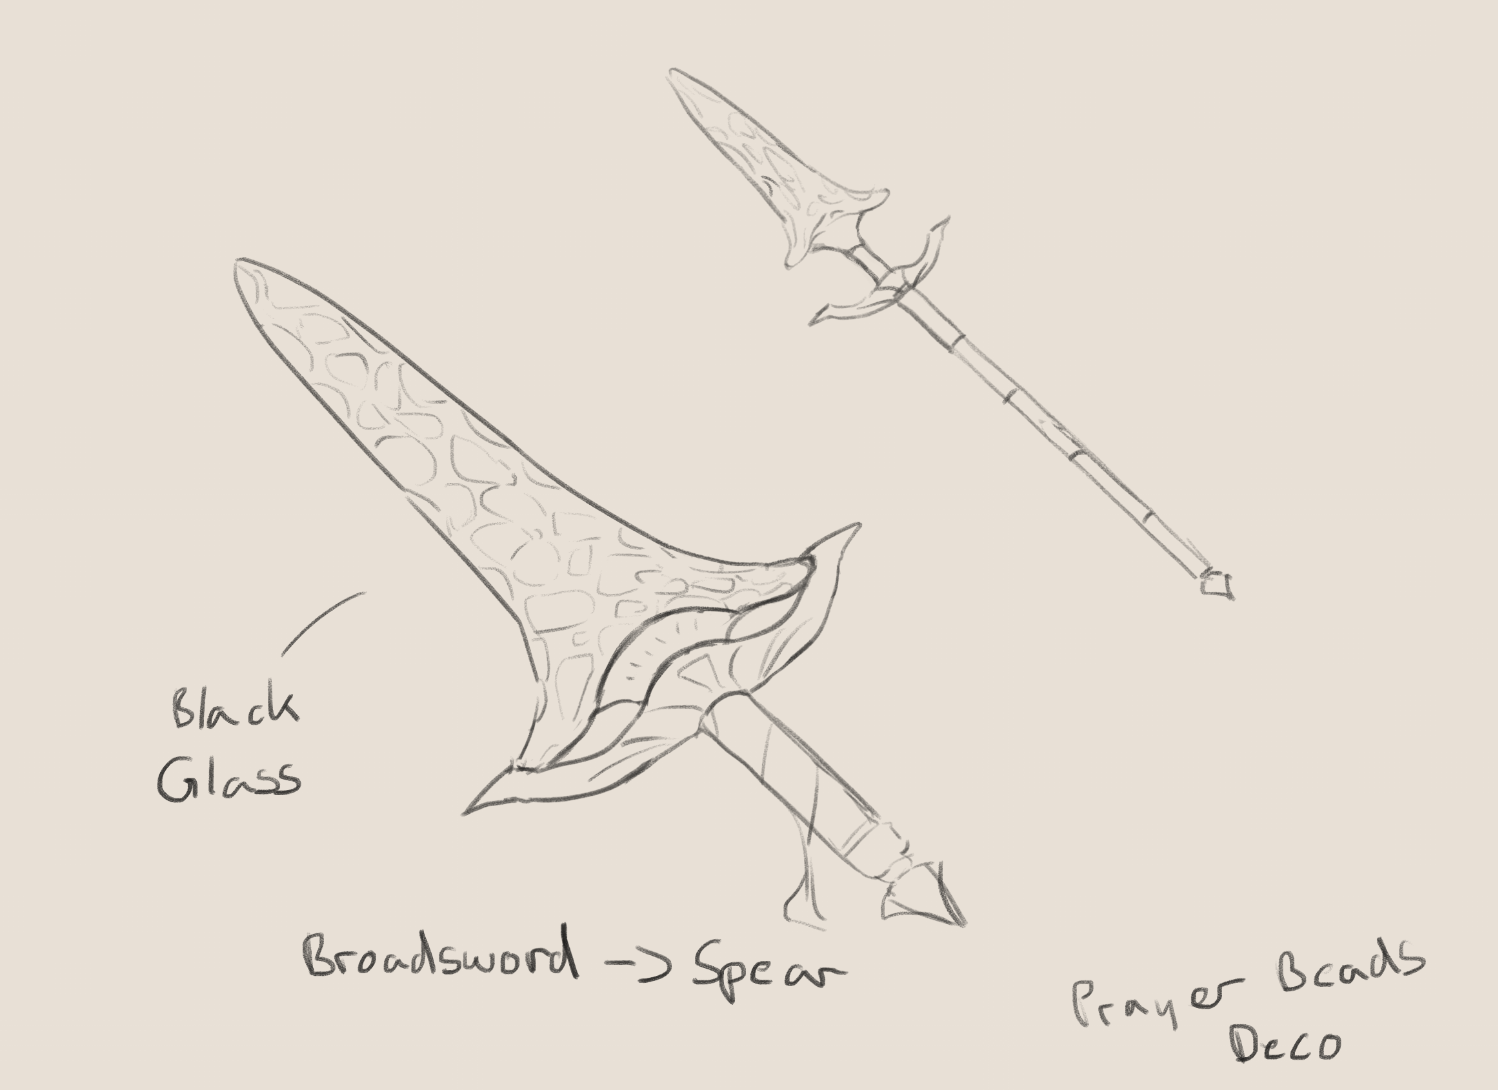
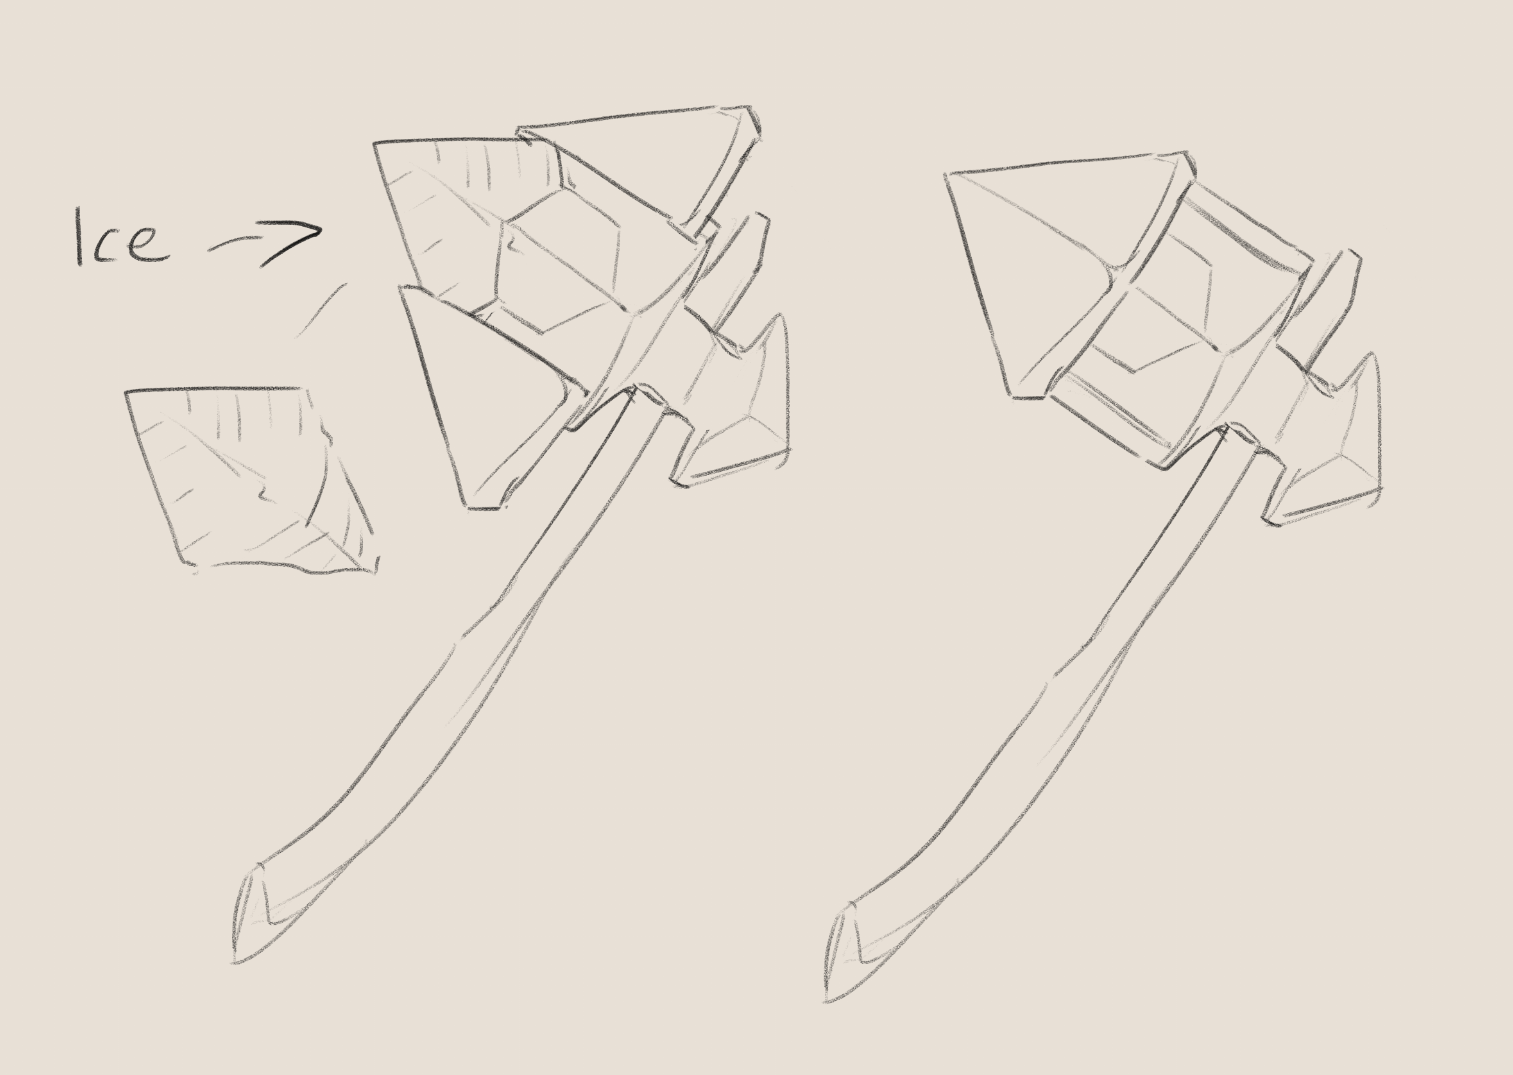
more

diff --git a/projects/weapon_collection/project_page.html b/projects/weapon_collection/project_page.html
@@ -38,7 +38,7 @@
             <!-- <img class="coverArtFull" src="../../img/image-logo.png" alt="Cover Image" height="512" width="512"></img> -->
         </div>
         <div class="mainTextField">
-            <div class="projectPage-Category category-artwork"> Coding </div>
+            <div class="projectPage-Category category-artwork"> Digital Art </div>
 
         </div>
     </div>
@@ -56,78 +56,51 @@
             </div>
 
             <p class="testJustify">
-                This procedural foot placement code is my own attempt to solve the problem of placing the feet of a
-                humanoid character correctly on uneven terrain.
-                I am aware that there are different approaches to this problem, but I wanted to develop my own solution
-                and challenge myself to think through the problem from the ground up.
+                Anyone who has played Bloodborne will know how fascinating its trick weapons are.
+                I think their appeal comes from the plausible designs, where a single weapon can be used in two distinct forms or ways.
 
             </p>
 
             <p class="testJustify">
-                Click on this <a href="FootPlacing.cs" download>DOWNLOAD</a> button to get the C# file.
-                The files in the ZIP contain the following small programs. The free program Processing is required
-                to run them:
+                Between the thorughs of what game I might develop one day and what I could draw next, I found myself coming up with some interesting weapon designs.
+                The sketches are not particularly polished, but they still capture the ideas and demonstrate some of the skills I have developed.
+                I therefore wanted to include them in my portfolio.
             </p>
 
-            <h4 class="textAlignLeft">The Final Result</h4>
-
-            <!-- Full-Size Video -->
-            <div class="img-medium-box">
-                <video width="100%" controls="">
-                    <source
-                        src="Bachelor-Project - Testscene - Windows, Mac, Linux - Unity 6.2 (6000.2.10F1)   Dx11  2026-09-05 21-26-58.mp4"
-                        type="video/mp4">
-                </video>
+            <div class="leftVerticalLineThick">
+                <div class="image-border img-square-box">
+                    <img class="popupImage clickable img-square hoverable" src="Screenshot 2026-01-03 150305.png"
+                        alt="Image" onclick="openPopup(this)" loading="lazy">
+                    <img class="popupImage clickable img-square hoverable" src="Screenshot 2025-09-06 014737.png"
+                        alt="Image" onclick="openPopup(this)" loading="lazy">
+                    <img class="popupImage clickable img-square hoverable" src="Screenshot 2025-09-06 014919.png"
+                        alt="Image" onclick="openPopup(this)" loading="lazy">
+                    <img class="popupImage clickable img-square hoverable" src="Screenshot 2026-01-03 162152.png"
+                        alt="Image" onclick="openPopup(this)" loading="lazy">
+                    <img class="popupImage clickable img-square hoverable" src="Screenshot 2025-09-06 014821.png"
+                        alt="Image" onclick="openPopup(this)" loading="lazy">
+                    <img class="popupImage clickable img-square hoverable" src="Screenshot 2025-09-06 014829.png"
+                        alt="Image" onclick="openPopup(this)" loading="lazy">
+                    <img class="popupImage clickable img-square hoverable" src="Screenshot 2025-09-06 014842.png"
+                        alt="Image" onclick="openPopup(this)" loading="lazy">
+                    <img class="popupImage clickable img-square hoverable" src="Screenshot 2025-09-06 014854.png"
+                        alt="Image" onclick="openPopup(this)" loading="lazy">
+                    <img class="popupImage clickable img-square hoverable" src="Screenshot 2025-09-06 014907.png"
+                        alt="Image" onclick="openPopup(this)" loading="lazy">
+                    <img class="popupImage clickable img-square hoverable" src="Screenshot 2026-01-03 162259.png"
+                        alt="Image" onclick="openPopup(this)" loading="lazy">
+                    <img class="popupImage clickable img-square hoverable" src="Screenshot 2025-09-06 014721.png"
+                        alt="Image" onclick="openPopup(this)" loading="lazy">
+                    <img class="popupImage clickable img-square hoverable" src="Screenshot 2025-09-06 014728.png"
+                        alt="Image" onclick="openPopup(this)" loading="lazy">
+                    <img class="popupImage clickable img-square hoverable" src="Screenshot 2026-09-07 185439.png"
+                        alt="Image" onclick="openPopup(this)" loading="lazy">
+                    <img class="popupImage clickable img-square hoverable" src="Screenshot 2026-09-07 185451.png"
+                        alt="Image" onclick="openPopup(this)" loading="lazy">
+                    <img class="popupImage clickable img-square hoverable" src="Screenshot 2025-09-06 014746.png"
+                        alt="Image" onclick="openPopup(this)" loading="lazy">
+                </div>
             </div>
-
-            <h4 class="textAlignLeft">My Approach</h4>
-            <p class="testJustify"> Instead of relying on information from the animation, I wanted the system to
-                determine the required foot placement from the character's current state and its environment.
-                The approach is divided into four main parts.
-            </p>
-
-            <p> • predictive terrain sampling based on foot movement<br> 
-                • continuous foot-ground contact estimation<br>
-                • root height adjustment based on terrain and leg constraints<br> 
-                • analytical two-bone inverse kinematics<br>
-            </p>
-
-            <h4 class="textAlignLeft">Foot Placement Height</h4>
-            <p class="testJustify"> A downward raycast directly below the foot is sufficient for flat or slowly changing
-                terrain, but it can react too late when the character moves onto a higher surface.
-                To anticipate upcoming terrain, the raycast is shifted in the direction of the foot's movement.
-                The amount of this offset is based on the current movement of the foot and is reduced as the foot
-                approaches a planted state.
-                This allows the system to detect a step before the foot reaches it and use the result as the target for
-                the foot.
-            </p>
-
-            <h4 class="textAlignLeft">Foot Grounding</h4>
-            <p class="testJustify"> The detected ground should not always immediately influence the foot, since a foot
-                that is currently moving through the air should remain largely controlled by the animation.
-                I therefore estimate the degree of contact from the foot's current height and orientation relative to
-                its original state. These measurements produce a continuous grounding weight, which determines how
-                strongly the foot transitions toward the detected ground position. 
-            </p>
-            
-                <h4 class="textAlignLeft">Pelvis Height Correction</h4>
-            <p class="testJustify"> Adjusting the feet alone is not sufficient when the difference in terrain height
-                becomes too large.
-                A higher step can force the leg into an unnatural configuration or bring the foot too close to the
-                pelvis. The system therefore evaluates the relative ground heights and the available distance between
-                the pelvis and the feet. When necessary, the character's root is raised to provide a more plausible leg
-                configuration, while the correction is smoothed over time. 
-            </p>
-            
-                <h4 class="textAlignLeft">Leg Inverse Kinematics</h4>
-            <p class="testJustify"> Once the target position of each foot has been determined, the leg needs to be
-                reconstructed around it.
-                Since the leg consists of two main segments, the thigh and shin can be treated as two sides of a
-                triangle connecting the pelvis and foot. Using the lengths of these segments and the distance to the
-                target foot position, the required knee angle can be calculated directly. The resulting rotations are
-                then applied to the thigh and shin to reach the target without using a general-purpose IK solver. 
-            </p>
-
 
 
         </div>

diff --git a/projects/animal_crossovers/project_page.html b/projects/animal_crossovers/project_page.html
@@ -1,0 +1,117 @@
+<!DOCTYPE html>
+<html lang="en">
+
+<head>
+    <!-- Navigation Script -->
+    <script type="module" src="/functions.js"> </script>
+    <meta charset="UTF-8">
+    <meta name="viewport" content="width=device-width, initial-scale=1.0">
+    <title>Portfolio Site | Lukas Müller</title>
+    <meta name="description"
+        content="Portfolio of Lukas Müller, showcasing game development, programming, 3D modelling and digital art.">
+    <meta name="author" content="Lukas Müller">
+
+    <!-- Embed page for social media posts -->
+    <meta property="og:description"
+        content="Portfolio of Lukas Müller, showcasing game development, programming, 3D modelling and digital art.">
+    <meta property="og:title" content="Portfolio Site | Lukas Müller">
+    <meta property="og:type" content="website">
+    <meta property="og:url" content="https://lammel17.github.io/index.html">
+    <meta property="og:image" content="https://lammel17.github.io/index.html/img/preview.png">
+    <meta property="og:site_name" content="Portfolio_Site_|_Lukas_Müller">
+
+    <!-- Favicon -->
+    <link rel="icon" type="image/png" href="/img/faviconNew.png">
+
+    <!-- Page Style -->
+    <link rel="stylesheet" type="text/css" href="/style.css?version=1">
+</head>
+
+<body>
+
+    <!-- Navigation Bar -->
+    <div id="navigation"></div>
+
+    <!-- Header with Full-Size Image -->
+    <div class="small-TopBackground-image" style="background-image: url('../../img/background/header-bg.jpg');">
+        <div class="coverDivFull">
+            <!-- <img class="coverArtFull" src="../../img/image-logo.png" alt="Cover Image" height="512" width="512"></img> -->
+        </div>
+        <div class="mainTextField">
+            <div class="projectPage-Category category-artwork"> Digital Art </div>
+
+        </div>
+    </div>
+
+    <!-- Description Section -->
+    <div class="descriptionDiv">
+        <div class="mainTextField">
+            <p class="date"><i>2024</i></p>
+            <!-- Section -->
+            <h2 class="projectMainHeader textAlignLeft">Animal Crossovers </h2>
+            <p class="project-tags">Tags: digital-art, sketches, concept-art, clip-studio-paint</p>
+
+            <div class="img-medium-box">
+                <img class="popupImage clickable image-border img-big" src="CoverImage.png" alt="Image" loading="lazy">
+            </div>
+
+            <p class="testJustify">
+                I love playing with animal features and combining them. There is something fascinating about imagining what animals could look like when their features are mixed together.
+                I came up with these combinations while doodling and eventually turned them into a whole collection.
+            </p>
+
+            <div class="leftVerticalLineThick">
+                <div class="image-border img-square-box">
+                    <img class="popupImage clickable img-square hoverable" src="animals antbear.png"
+                    alt="Image" onclick="openPopup(this)" loading="lazy">
+                    <img class="popupImage clickable img-square hoverable" src="animals peacock.png"
+                    alt="Image" onclick="openPopup(this)" loading="lazy">
+                    <img class="popupImage clickable img-square hoverable" src="animals pig.png"
+                    alt="Image" onclick="openPopup(this)" loading="lazy">
+                    <img class="popupImage clickable img-square hoverable" src="animals deer.png"
+                    alt="Image" onclick="openPopup(this)" loading="lazy">
+                    <img class="popupImage clickable img-square hoverable" src="animals jelly.png"
+                    alt="Image" onclick="openPopup(this)" loading="lazy">
+                    <img class="popupImage clickable img-square hoverable" src="animals lepard.png"
+                    alt="Image" onclick="openPopup(this)" loading="lazy">
+                    <img class="popupImage clickable img-square hoverable" src="animals lizzard.png"
+                    alt="Image" onclick="openPopup(this)" loading="lazy">
+                    <img class="popupImage clickable img-square hoverable" src="animals mammoth.png"
+                    alt="Image" onclick="openPopup(this)" loading="lazy">
+                    <img class="popupImage clickable img-square hoverable" src="animals mouse.png"
+                    alt="Image" onclick="openPopup(this)" loading="lazy">
+                    <img class="popupImage clickable img-square hoverable" src="animals chicken.png"
+                    alt="Image" onclick="openPopup(this)" loading="lazy">
+                        <img class="popupImage clickable img-square hoverable" src="animals octopus.png"
+                        alt="Image" onclick="openPopup(this)" loading="lazy">
+                        <img class="popupImage clickable img-square hoverable" src="animals owl.png"
+                        alt="Image" onclick="openPopup(this)" loading="lazy">
+                        <img class="popupImage clickable img-square hoverable" src="animals sloth.png"
+                        alt="Image" onclick="openPopup(this)" loading="lazy">
+                        <img class="popupImage clickable img-square hoverable" src="animals slug.png"
+                        alt="Image" onclick="openPopup(this)" loading="lazy">
+                        <img class="popupImage clickable img-square hoverable" src="animals wolf.png"
+                        alt="Image" onclick="openPopup(this)" loading="lazy">
+                        <img class="popupImage clickable img-square hoverable" src="animals bat.png"
+                            alt="Image" onclick="openPopup(this)" loading="lazy">
+                        <img class="popupImage clickable img-square hoverable" src="animals bever.png"
+                            alt="Image" onclick="openPopup(this)" loading="lazy">
+                    <img class="popupImage clickable img-square hoverable" src="animals worm.png"
+                        alt="Image" onclick="openPopup(this)" loading="lazy">
+                </div>
+            </div>
+
+
+        </div>
+    </div>
+
+    <!-- footer contact section -->
+    <div id="contactSection"></div>
+
+    <div id="imagePopup" class="imagePopup">
+        <img id="popupImage" src="" alt="">
+    </div>
+
+</body>
+
+</html>

diff --git a/projects-list.js b/projects-list.js
@@ -211,6 +211,15 @@ export const allProjects = [
     },
 
     {
+        name: "Animal Crossovers",
+        category: "Digital Art",
+        categoryClass: "artwork",
+        description: "Here I combined animal features to form a new creature. There are 18 animal crossovers in this collection.",
+        image: "/projects/animal_crossovers/CoverImage.png",
+        page: "/projects/animal_crossovers/project_page.html"
+    },
+
+    {
         name: "VR-Puzzle Game",
         category: "Game Development",
         categoryClass: "game-dev",
